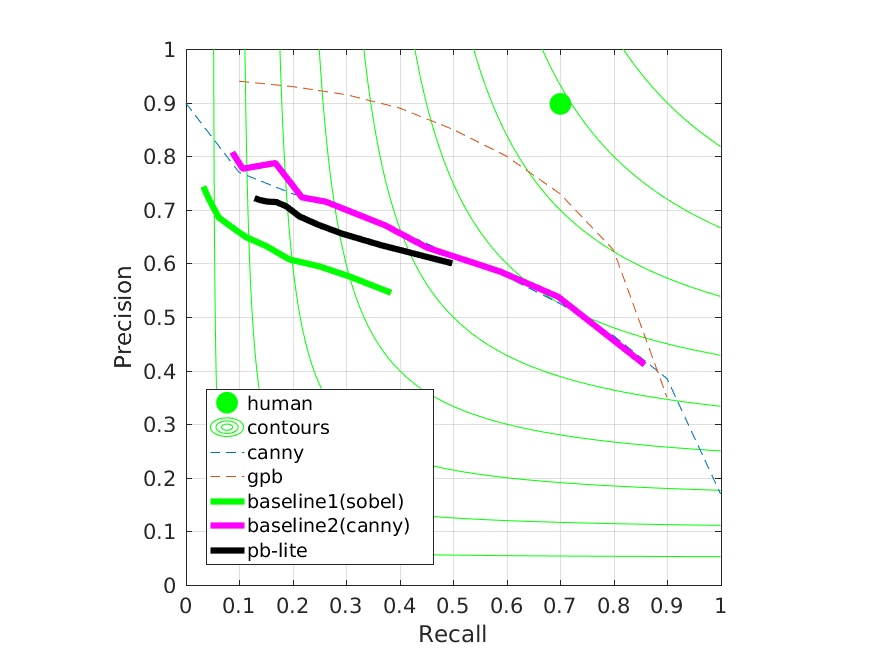
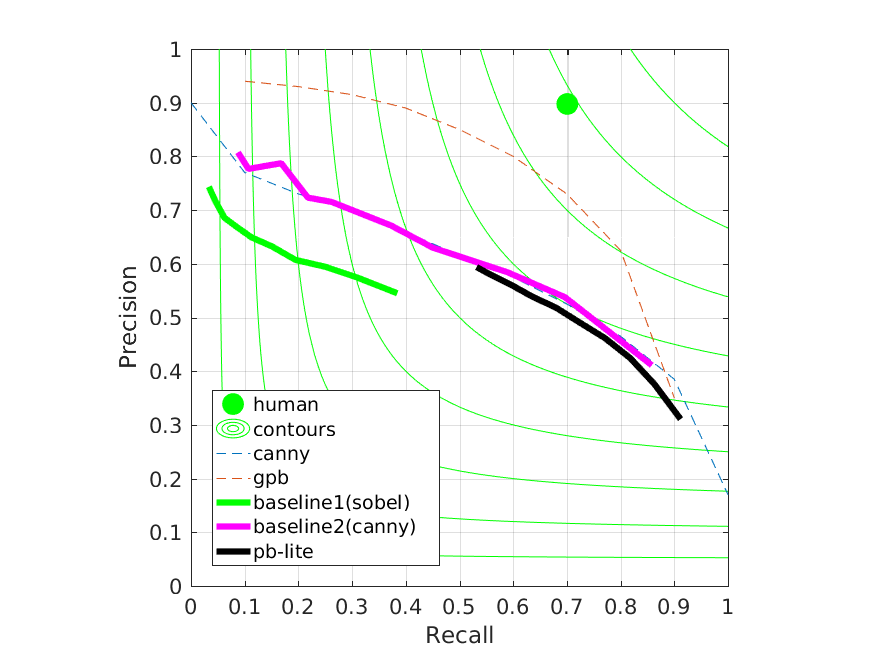
fix benchmark

diff --git a/Part2/Code/computeGradient.m b/Part2/Code/computeGradient.m
@@ -14,7 +14,7 @@ for s = 1:scale
             tmp = (inputD == k);
             g_i = imfilter(tmp, h{s, 1}(:, :, o), 'conv');
             h_i = imfilter(tmp, h{s, 2}(:, :, o), 'conv');
-            tempG = tempG + 0.5 * (g_i - h_i).^2 ./ (g_i + h_i + eps);
+            tempG = tempG + 0.5 * double(g_i - h_i).^2 ./ double(g_i + h_i + eps);
         end
         g(:, :, ((s - 1) * orient + o)) = tempG;
     end

diff --git a/Part2/Code/Starter.m b/Part2/Code/Starter.m
@@ -99,6 +99,9 @@ CannyPb = canny_pb(im,0.1:0.1:.7,1:1:4);
 %% Combine responses to get pb-lite output
 % A simple combination function would be: PbLite = (tg+gb).*(SobelPb+CannyPb)
 PbLite = (tg + bg + cg).*(SobelPb + CannyPb);
+minPb = min(PbLite(:));
+maxPb = max(PbLite(:));
+PbLite = (PbLite - minPb) ./ (maxPb - minPb);
 % Display PbLite and save image as PbLite_ImageName.png
 % use command saveas
 

diff --git a/Part2/Benchmark/stencil/bench/benchmarks/boundaryBench.m b/Part2/Benchmark/stencil/bench/benchmarks/boundaryBench.m
@@ -27,7 +27,7 @@ if nargin<6, maxDist = 0.0075; end
 if nargin<5, nthresh = 99; end
 
 %% clean up
-% system(sprintf('rm -rf %s/*',outDir));
+system(sprintf('rm -rf %s/*',outDir));
 
 
 iids = dir(fullfile(imgDir,'*.jpg'));
@@ -47,7 +47,7 @@ end
 collect_eval_bdry(outDir);
 
 %% clean up
-% system(sprintf('rm -rf %s/*_ev1.txt',outDir));
+system(sprintf('rm -rf %s/*_ev1.txt',outDir));
 
 
 

diff --git a/Part2/Benchmark/stencil/Benchmark.m b/Part2/Benchmark/stencil/Benchmark.m
@@ -27,4 +27,3 @@ PbLiteBench;
 
 %% Plot the PR Curve
 PlotPR;
-
